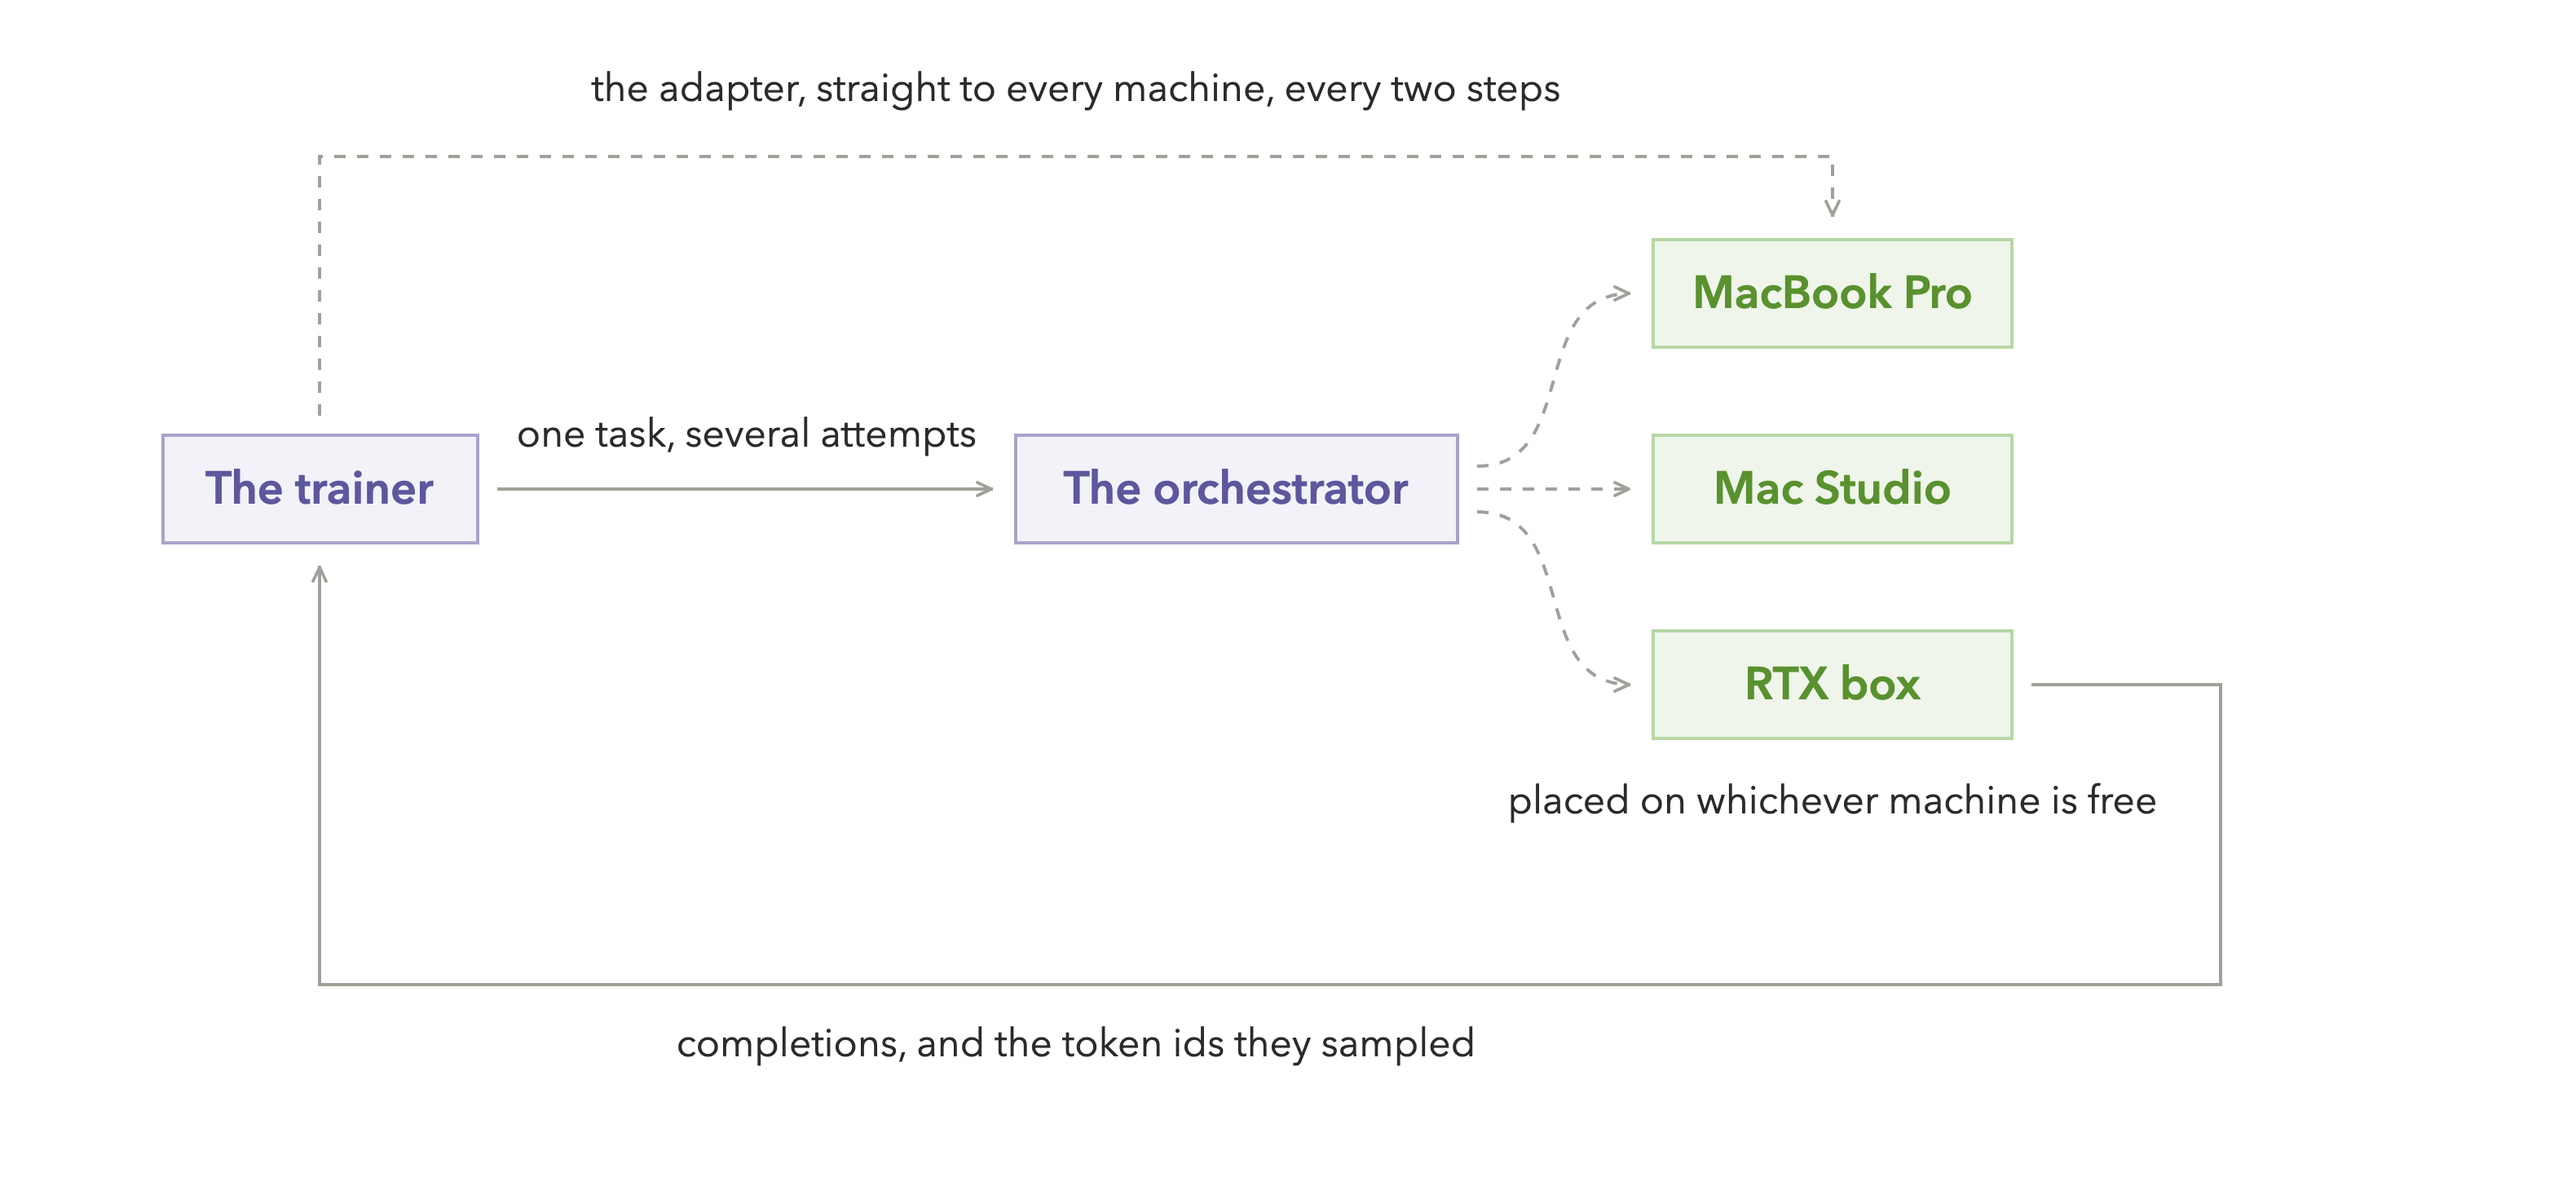
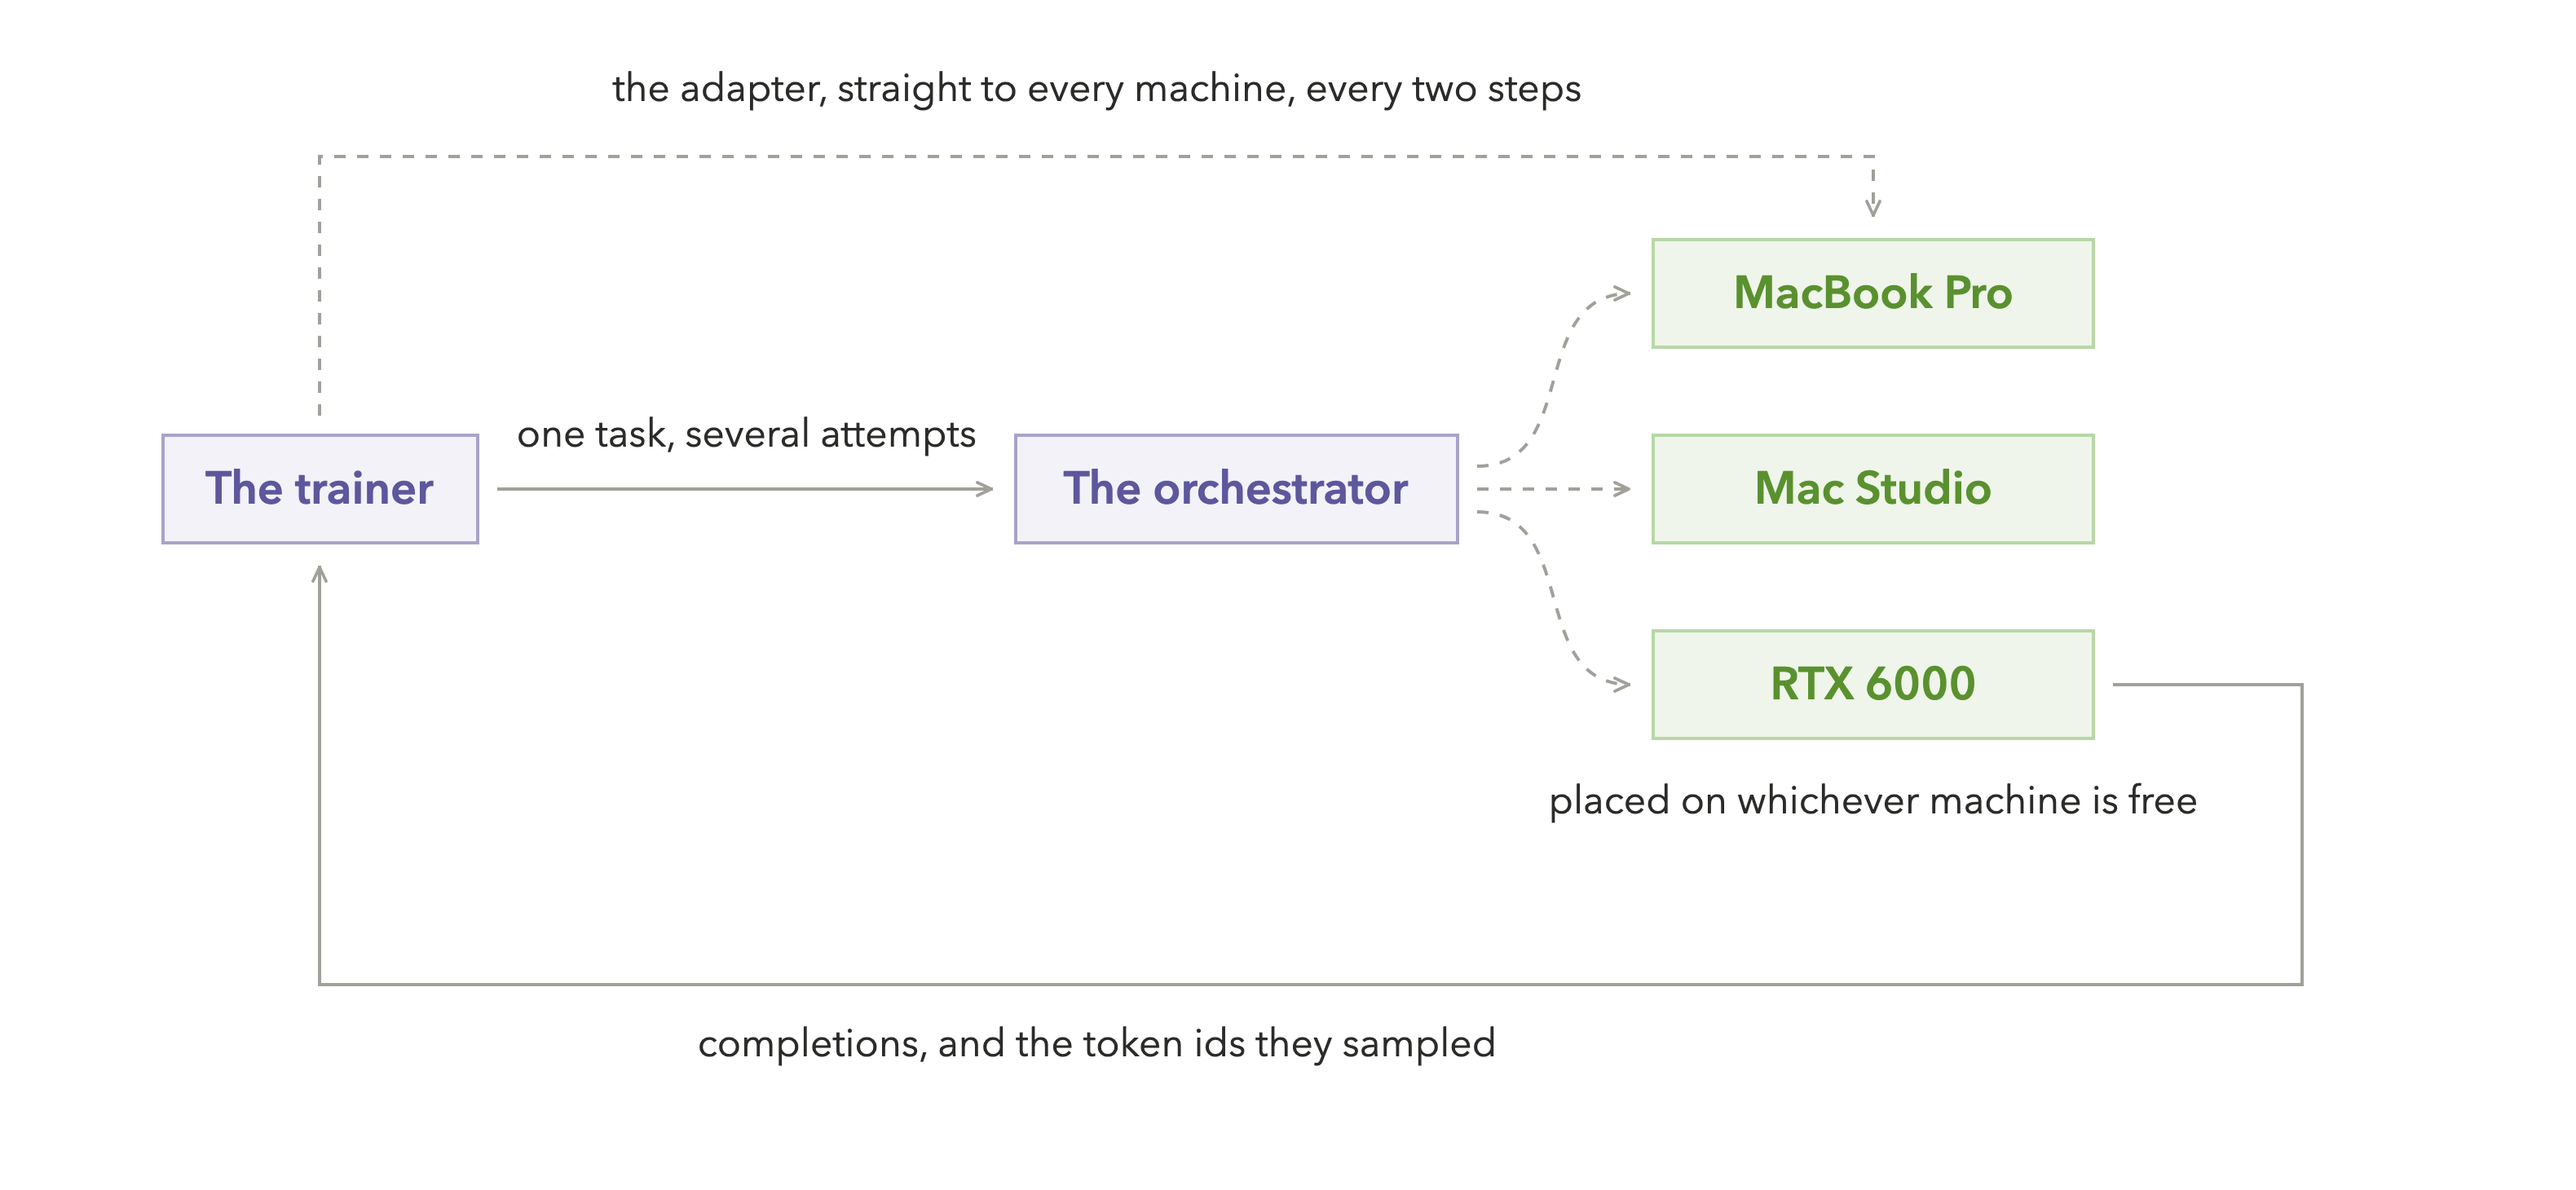
docs: one fleet, spelled once, across every figure that draws it
Three figures drew the row of machines and all three disagreed. Two called the
same box "RTX box" where a third said "RTX 6000", home-grid ordered the five
differently again, and the widths were 220, 236 and 270 — so the same fleet
arrived as three different fleets depending on which section you were reading.

The names and their order are now one FLEET constant and one fleet_row(), at one
box width. train-architecture renders byte-identical, which is the check that
this was a refactor and not a redraw.

fig-inference gets the full five, at the training figure's width and spacing, so
the two rows stack when you scroll from one section to the next. It keeps its
single pair of arrows into one machine: serving lights up one box and four sit
quiet, training fans to all five. That contrast is the difference between the
two halves of the product, and it only reads if the rows are otherwise identical.
Its orchestrator moves off centre onto the fourth machine — centring it left the
top-right of the page empty, and the machine that answers is whichever one was
free, which an off-centre pick says better than a symmetric one.

fig-fleet stays at three: it is about one task landing on a free machine, and
five rows would make the fleet the subject. It slices FLEET so that reads as a
subset rather than a different set.

diff --git a/docs/build_figures.py b/docs/build_figures.py
@@ -18,6 +18,25 @@ from figs import (
 OUT = os.path.dirname(os.path.abspath(__file__))
 M = 100          # page margin
 GAP = 120        # the gap an arrow crosses
+MW = 270         # a machine box; one width, so any two fleet rows line up
+FGAP = 26        # between machines: close enough that the row reads as one strip
+
+# One fleet, named and ordered once. Three figures drew this row and all three
+# disagreed — two called the same box "RTX box" where a third said "RTX 6000",
+# and home-grid ordered it differently again. A reader who meets these machines
+# on the front page should recognise the same five, in the same order, in every
+# later figure; three spellings of one fleet reads as three different fleets.
+FLEET = ("MacBook Pro", "Mac Studio", "Mac mini", "RTX 6000", "RTX 5090")
+
+
+def fleet_row(f, page_w, y):
+    """Draw the fleet centred on the page. Returns each box's centre x."""
+    span = len(FLEET) * MW + (len(FLEET) - 1) * FGAP
+    x0 = (page_w - span) / 2
+    xs = [x0 + MW / 2 + i * (MW + FGAP) for i in range(len(FLEET))]
+    for cx, name in zip(xs, FLEET):
+        f.box(cx, y, name, w=MW)
+    return xs
 
 
 def chain(f, y, items, edges=None):
@@ -109,10 +128,12 @@ f.box(gcx, y, "The orchestrator", kind="purple", w=gw)
 f.arrow(tcx + tw2 / 2 + 12, y, gcx - gw / 2 - 14, y)
 f.label((tcx + tw2 / 2 + gcx - gw / 2) / 2, y - 26, "one task, several attempts")
 
-MW = 220
 mcx = gcx + gw / 2 + GAP + MW / 2
+# Three of the five, not all five: this figure is about one task landing on a
+# free machine, and five rows would make the fleet the subject instead. Names
+# come from FLEET so it is visibly a subset, never a different set.
 rows = [y - 120, y, y + 120]
-for ry, name in zip(rows, ["MacBook Pro", "Mac Studio", "RTX box"]):
+for ry, name in zip(rows, [FLEET[0], FLEET[1], FLEET[3]]):
     f.box(mcx, ry, name, w=MW)
     curve = 0 if ry == y else 64
     off = 14 if ry > y else -14 if ry < y else 0
@@ -213,18 +234,10 @@ f.label(gcx + gw / 2 + 70, y + 162, "not better")
 ocw = box_w("The orchestrator")
 oy = 470
 f.box(tcx, oy, "The orchestrator", kind="purple", w=ocw)
-MW = 270
 my = 720
-# Set close enough to touch: three boxes in a contiguous strip read as one fleet,
-# so one pair of arrows can address the group. Fanning to each of them meant six
-# lines that crossed, to say a thing the row already says.
 # Five, spread the full width: the fleet is the point of the page and a huddle of
 # three under the trainer left half the frame empty saying nothing.
-FLEET = ("MacBook Pro", "Mac Studio", "Mac mini", "RTX 6000", "RTX 5090")
-fspan = len(FLEET) * MW + (len(FLEET) - 1) * 26
-fx0 = (1700 - fspan) / 2
-for i, name in enumerate(FLEET):
-    f.box(fx0 + MW / 2 + i * (MW + 26), my, name, w=MW)
+fleet_x = fleet_row(f, 1700, my)
 
 # Both directions live in the gap between the trainer and the orchestrator,
 # stacked directly above one another. The trainer never speaks to a machine: it
@@ -237,8 +250,7 @@ f.label(tcx + 96, 340, "the attempts, and", "the token ids they sampled", anchor
 # Each arrow leaves its own point along the orchestrator's edge. Five lines from
 # one pixel is a knot; five from a spread edge is a distribution, which is what
 # this actually is.
-for i in range(len(FLEET)):
-    bx = fx0 + MW / 2 + i * (MW + 26)
+for i, bx in enumerate(fleet_x):
     f.arrow(tcx - 120 + i * 60, oy + H / 2 + 12, bx, my - H / 2 - 14, dashed=True)
 f.label(1700 - M, my + H / 2 + 56, "placed on whichever machine is free", anchor="end")
 f.write(f"{OUT}/train-architecture.svg")
@@ -327,25 +339,32 @@ f.write(f"{OUT}/fig-flywheel.svg")
 # as one system: one line across the top, the fleet underneath the thing that
 # places work on it. Simpler than training because there is no gate and no
 # adapter — a request goes out, an answer comes back.
-f = Fig(1350, 470)
+f = Fig(1700, 500)
 y = 152
 aw3 = box_w("Your apps") - 8
 acx = M + aw3 / 2
 f.term(acx, y, "Your apps", w=aw3)
 f.label(acx, y + 66, "OpenClaw · Hermes", "your own code")
 
+# Parked over the fourth machine, not the middle one. Centring it left the whole
+# top-right of the page empty, and the machine that answers is whichever one was
+# free — an off-centre pick says that better than a symmetric one.
 ocw2 = box_w("The orchestrator")
-occx = acx + aw3 / 2 + 460 + ocw2 / 2
+occx = (1700 - (len(FLEET) * MW + (len(FLEET) - 1) * FGAP)) / 2 + MW / 2 + 3 * (MW + FGAP)
 f.box(occx, y, "The orchestrator", kind="purple", w=ocw2)
 f.arrow(acx + aw3 / 2 + 12, y - 18, occx - ocw2 / 2 - 14, y - 18)
 f.label((acx + aw3 / 2 + occx - ocw2 / 2) / 2, y - 40, "one OpenAI-compatible endpoint")
 f.arrow(occx - ocw2 / 2 - 14, y + 18, acx + aw3 / 2 + 12, y + 18)
 f.label((acx + aw3 / 2 + occx - ocw2 / 2) / 2, y + 58, "the answer")
 
-MW2 = 236
-my2 = 372
-for bx, name in zip((occx - 250, occx, occx + 250), ("MacBook Pro", "Mac Studio", "RTX box")):
-    f.box(bx, my2, name, w=MW2)
+# The same five machines as the training figure, at the same width and spacing,
+# so the two rows stack when a reader scrolls from one section to the next.
+# ONE pair of arrows, into the middle box: serving a request lights up a single
+# machine, and four boxes sitting quietly either side is what says so. Training
+# fans to all five because training uses all five — that contrast is the whole
+# difference between the two halves, and it only reads if the rows are identical.
+my2 = 402
+fleet_row(f, 1700, my2)
 f.arrow(occx - 64, y + H / 2 + 12, occx - 64, my2 - H / 2 - 14)
 f.arrow(occx + 64, my2 - H / 2 - 14, occx + 64, y + H / 2 + 12)
 f.label(occx - 96, 262, "whichever computer", "serves that model", anchor="end")
@@ -372,14 +391,8 @@ f.panel(M, 1660 - M, gy, "Your grid", ["Inference", "Training"])
 for cx in app_x:
     f.arrow(cx, gy - 176 / 2 - 12, cx, app_y + H / 2 + 14)
 
-MACH = ["Mac Studio", "Mac mini", "RTX 6000", "MacBook Pro", "RTX 5090"]
-mw = max(box_w(m) for m in MACH)
-mspan = len(MACH) * mw + (len(MACH) - 1) * 30
-mx0 = (1660 - mspan) / 2
 mach_y = 624
-for i, m in enumerate(MACH):
-    cx = mx0 + mw / 2 + i * (mw + 30)
-    f.box(cx, mach_y, m, w=mw)
+for cx in fleet_row(f, 1660, mach_y):
     f.arrow(cx, mach_y - H / 2 - 12, cx, gy + 176 / 2 + 14)
 f.label(1660 / 2, mach_y + 78, "MLX · Ollama · vLLM · LM Studio · ComfyUI — the engines you already run")
 f.write(f"{OUT}/home-grid.svg")

diff --git a/train/README.md b/train/README.md
@@ -29,7 +29,7 @@ inference is what a grid already does. So the expensive part of training is work
 already good at, and the only new thing is one machine that adjusts weights.
 
 <p align="center">
-<img src="../docs/train-architecture.png" width="900" alt="Your tasks and the weights sit with the trainer, which drives everything: across the top it takes your tasks, produces an adapter and hands it to the gate, which serves the result only if it beats the model you already serve and bins it otherwise. Below the trainer, the orchestrator places each task on whichever of a MacBook Pro, Mac Studio or RTX box is free, and the attempts come back to the trainer with the token ids they sampled.">
+<img src="../docs/train-architecture.png" width="900" alt="Your tasks and the weights sit with the trainer, which drives everything: across the top it takes your tasks, produces an adapter and hands it to the gate, which serves the result only if it beats the model you already serve and bins it otherwise. Below the trainer, the orchestrator fans each task out across all five of your machines — a MacBook Pro, a Mac Studio, a Mac mini, an RTX 6000 and an RTX 5090 — placing it wherever there is room, and the attempts come back to the trainer with the token ids they sampled.">
 </p>
 
 ---
@@ -100,7 +100,7 @@ you rent, and renting compute by the hour is the expensive way to do the one job
 hardware suits perfectly.
 
 <p align="center">
-<img src="../docs/fig-fleet.png" width="880" alt="The trainer sends one task and asks for several attempts; the orchestrator places that work on whichever of a MacBook Pro, Mac Studio or RTX box is free; the completions and the token ids they sampled come back to the trainer, which pushes each new adapter straight to every machine, every two steps.">
+<img src="../docs/fig-fleet.png" width="880" alt="The trainer sends one task and asks for several attempts; the orchestrator places that work on whichever of a MacBook Pro, Mac Studio or RTX 6000 is free; the completions and the token ids they sampled come back to the trainer, which pushes each new adapter straight to every machine, every two steps.">
 </p>
 
 Note who is driving. The trainer holds the tasks and the weights and opens every request; the

diff --git a/README.md b/README.md
@@ -176,7 +176,7 @@ serve to one, and `grid members add research <email>` invites people ([Members](
 ## Inference
 
 <p align="center">
-<img src="docs/fig-inference.png" width="820" alt="Your apps — OpenClaw, Hermes, your own code — call one OpenAI-compatible endpoint; the orchestrator sends each request to whichever computer serves that model, out of a MacBook Pro, a Mac Studio and an RTX box, and the answer comes back the same way.">
+<img src="docs/fig-inference.png" width="880" alt="Your apps — OpenClaw, Hermes, your own code — call one OpenAI-compatible endpoint. Below the orchestrator sits your fleet: a MacBook Pro, a Mac Studio, a Mac mini, an RTX 6000 and an RTX 5090. A request goes down to the single machine already serving that model and the answer comes back the same way; the rest stay idle.">
 </p>
 
 ### Bring your own engine
@@ -263,7 +263,7 @@ your repos, your deals — on the same machines, where the data, the attempts an
 leave your network.
 
 <p align="center">
-<img src="docs/train-architecture.png" width="880" alt="Your tasks and the weights sit with the trainer, which drives everything: across the top it takes your tasks, produces an adapter and hands it to the gate, which serves the result only if it beats the model you already serve and bins it otherwise. Below the trainer, the orchestrator places each task on whichever of a MacBook Pro, Mac Studio or RTX box is free, and the attempts come back with the token ids they sampled.">
+<img src="docs/train-architecture.png" width="880" alt="Your tasks and the weights sit with the trainer, which drives everything: across the top it takes your tasks, produces an adapter and hands it to the gate, which serves the result only if it beats the model you already serve and bins it otherwise. Below the trainer, the orchestrator fans each task out across all five of your machines — a MacBook Pro, a Mac Studio, a Mac mini, an RTX 6000 and an RTX 5090 — placing it wherever there is room, and the attempts come back with the token ids they sampled.">
 </p>
 
 Why bother, when the models you can rent are so good? Because they know nothing about you, and

diff --git a/docs/STYLE.md b/docs/STYLE.md
@@ -111,6 +111,12 @@ alone separates them, and no two lines in one figure should cross if a bend woul
 - **Nothing is added to help the reader.** No legend, no key, no colour scale, no title inside the
   frame. The README's prose is the caption. A legend is a sign that the drawing has not done its job.
 
+**One fleet, spelled once.** The machines are a `FLEET` constant in `build_figures.py`, and every
+figure that draws them takes its names and their order from it — at one box width, so two fleet rows
+in different figures stack when a reader scrolls between them. Three figures once drew this row and
+all three disagreed; two spellings of one fleet reads as two different fleets. A figure that needs
+fewer machines slices `FLEET` rather than retyping it, so a subset is visibly a subset.
+
 **Names, not logos.** When a station needs examples — what "your systems" actually means — set them
 as a smaller line beneath it (`Gmail · Slack · Notion`). A real logo would be the only thing in the
 whole set not drawn by `figs.py`: an external asset to license, keep current and re-export, in a
